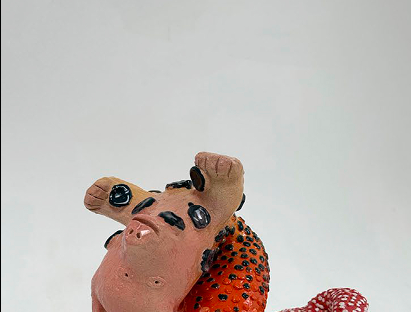
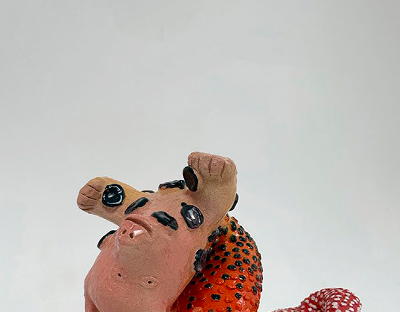
fix image cache data

Changed region(s): [[0.18, 0.4904, 0.63, 1.0], [0.69, 0.9231, 0.93, 1.0], [0.36, 0.8654, 0.39, 0.9231]]

diff --git a/src/data/pieceImgData.js b/src/data/pieceImgData.js
@@ -1,20 +1,24 @@
+import piece1 from "../../public/piece_img/piece_1.png";
+import piece2 from "../../public/piece_img/piece_2.png";
+import piece3 from "../../public/piece_img/piece_3.png";
+
 export const pieceImgData = [
   {
-    url: "/piece_img/piece_1.png",
+    url: piece1.src,
     title: "Fragments de silence",
     date: "2022",
     description:
       "Une recherche autour des formes suspendues et des espaces vides. Les contours se répondent comme les fragments d'un souvenir qui se recompose lentement.",
   },
   {
-    url: "/piece_img/piece_2.png",
+    url: piece2.src,
     title: "Fragments de silence",
     date: "2022",
     description:
       "Une recherche autour des formes suspendues et des espaces vides. Les contours se répondent comme les fragments d'un souvenir qui se recompose lentement.",
   },
   {
-    url: "/piece_img/piece_3.png",
+    url: piece3.src,
     title: "Fragments de silence",
     date: "2022",
     description:
@@ -22,21 +26,21 @@ export const pieceImgData = [
   },
 
   {
-    url: "/piece_img/piece_1.png",
+    url: piece1.src,
     title: "Fragments de silence",
     date: "2022",
     description:
       "Une recherche autour des formes suspendues et des espaces vides. Les contours se répondent comme les fragments d'un souvenir qui se recompose lentement.",
   },
   {
-    url: "/piece_img/piece_2.png",
+    url: piece2.src,
     title: "Fragments de silence",
     date: "2022",
     description:
       "Une recherche autour des formes suspendues et des espaces vides. Les contours se répondent comme les fragments d'un souvenir qui se recompose lentement.",
   },
   {
-    url: "/piece_img/piece_3.png",
+    url: piece3.src,
     title: "Fragments de silence",
     date: "2022",
     description:
